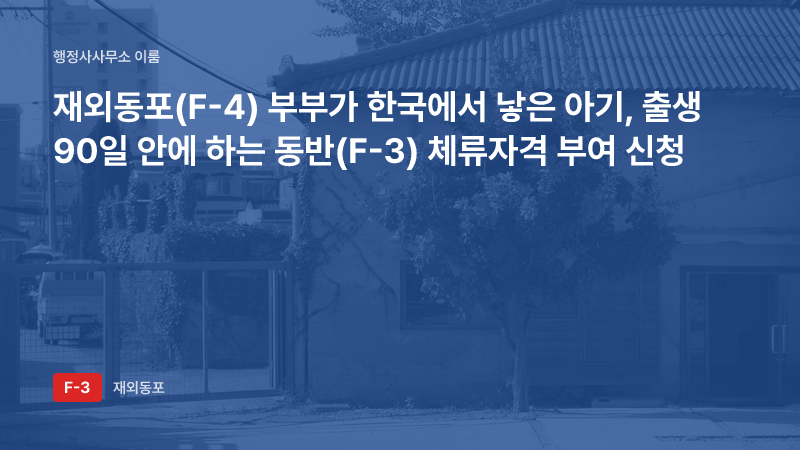
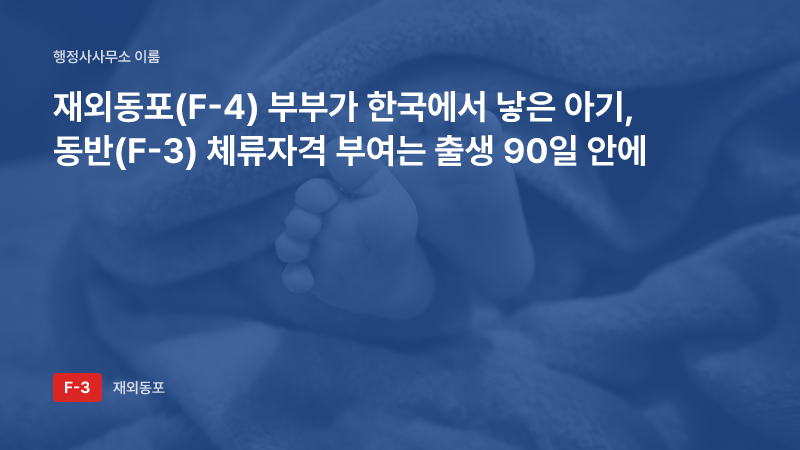
content(f4blog-1124): 국내 출생 자녀 F-3 글 — 390px 제목 줄바꿈('동반(F-'/'3)') 피하는 제목, 주제 일치 썸네일(신생아 Pexels 8203609), 본문 대표 글 링크 2·관련 안내 중복 정리·하이코리아 1줄, 근거표 2026-11-16판 재대조, 은행 순서 41↔42
맥7 F4BLOG-1124.

diff --git a/scripts/f4visa-daily/bank/f4-parents-korea-born-child-f3-status-grant/evidence.md b/scripts/f4visa-daily/bank/f4-parents-korea-born-child-f3-status-grant/evidence.md
@@ -1,36 +1,38 @@
 # 근거 대조표 — f4-parents-korea-born-child-f3-status-grant
 
-기준: 체류민원 자격별 안내 매뉴얼 추출본 stay_261019.txt(2026-10-19판, 행 번호는 추출본 기준). 원문 인용은 공백만 무시하고 글자 그대로 옮겼다.
+기준: 체류민원 자격별 안내 매뉴얼 추출본 stay_261116.txt(2026-11-16판, NAS 출입국매뉴얼/2026.11.22 텍스트추출 — 11-24 F4BLOG-1124 재대조, 25건 원문 동일, 행 번호는 추출본 기준). 원문 인용은 공백만 무시하고 글자 그대로 옮겼다.
 
 | # | 원고 주장(요약) | 출처(행) | 원문 인용 |
 |---|---|---|---|
-| 1 | 국내 출생으로 체류자격 없이 체류하게 된 외국인은 출생일부터 90일 이내 체류자격을 받아야 함(출입국관리법) | stay:L16133 | ①대한민국에서 출생하여 제10조에 따른 체류자격을 가지지 못하고 체류하게 되는 외국인은 그가 출생한 날부터 90일 이내에 |
-| 2 | 국내 출생 외국인 90일 이내 자격부여 | stay:L16136 | ☞ 국내 출생 외국인 : 출생일로부터 90일 이내에 자격부여를 받아야 함 |
-| 3 | F-3 기본 대상: F-4 취득자의 배우자 및 미성년 자녀 | stay:L25184 | 재외동포(F-4) 자격을 취득한 자의 가족 (배우자 및 미성년 자녀) |
-| 4 | H-2 취득자의 배우자·미성년 자녀도 F-3 기본 대상 | stay:L25185 | 방문취업(H-2) 자격을 취득한 자의 가족 (배우자 및 미성년 자녀) |
-| 5 | F-3 해당자: 배우자, 배우자가 없는 미성년 자녀 | stay:L19496 | 재외동포(F-4) 및 방문취업(H-2)의 체류자격에 해당하는 사람의 배우자 및 미성년 자녀로서 배우자가 없는 사람 |
-| 6 | F-3 체류자격 부여 서류: 신청서·여권·사진 1매·수수료 | stay:L19631-19632 | 1. 제출서류 ① 신청서(별지 34호 서식), 여권, 표준규격사진 1매, 수수료 |
-| 7 | 부 또는 모의 외국인등록증 | stay:L19633 | ② 부 또는 모의 외국인등록증 |
-| 8 | 신원보증서 | stay:L19634 | ③ 신원보증서 |
-| 9 | 가족관계 입증서류 | stay:L19635 | ④ 가족관계 입증서류 |
-| 10 | 본국 출생증명서 원본(공적 서류 입증 필수) | stay:L19637 | 본국의 출생증명서 원본(공적 서류 입증 필수) 등 |
-| 11 | 대한민국 내 출생 시 국내 출생증명서 | stay:L19638 | 국내 출생증명서(대한민국 내 출생 시) |
-| 12 | 본국 가족관계증명서 등 친자관계 입증서류 | stay:L19639 | 본국의 가족관계증명서 등 친자관계 입증서류 |
-| 13 | 중국: 거민신분증, 결혼증, 호구부 등 | stay:L19640 | 중국의 경우 거민신분증, 결혼증, 호구부 등 |
-| 14 | 본국 공적 서류: 번역자 확인서·아포스티유·영사확인 모두 갖출 것 | stay:L19641-19644 | ※ 본국의 공적 서류의 경우 아래 요건을 모두 갖출 것 - 번역자 확인서 필수 첨부 - 협약국인 경우 아포스티유 확인 필요 - 미체약국인 경우 주재국 대한민국 공관의 영사확인 필요 |
-| 15 | F-4는 거소신고(국내거소신고증 보유 — 부모 서류 확인 권고의 전제) | stay:L24911 | 90일 이상 체류하고자 하는 경우 입국일부터 90일 이내 거소신고 |
-| 16 | F-5 부모의 국내 출생 자녀 → F-5 자격 부여 | stay:L19814 | 대한민국에서 체류하고 있는 영주(F-5) 자격의 부 또는 모가 대한민국에서 출생한 자녀에 대하여 체류자격부여를 신청한 경우 영주(F-5)자격 부여 |
-| 17 | 그 경우도 출생일부터 90일 이내 신청 | stay:L19815 | 가. 출생한 날부터 90일 이내에 체류자격 부여신청 |
-| 18 | 해외 출생 자녀 제외 | stay:L19816 | ※ 해외에서 출생한 자녀는 제외 |
-| 19 | 동포 가족 연장은 주 체류자격자의 체류기간 범위 내 | stay:L25201 | 주 체류자격자의 체류기간 범위 내에서 연장 |
-| 20 | F-3 연장 서류: 신청서·여권 및 외국인등록증·수수료, 체류지 입증서류 | stay:L19704-19705 | ① 신청서(별지 34호 서식), 여권 및 외국인등록증, 수수료 ② 체류지 입증서류(임대차계약서, 부동산 등기부등본, 전세계약서, 매매계약서 등 및 숙소제공 확인서) |
-| 21 | F-3 연장 추가서류: 배우자 또는 부모의 외국인등록증 | stay:L19708 | ③ 배우자 또는 부모의 외국인등록증 |
-| 22 | 재입국허가 면제: 출국 후 1년 이내 재입국 | stay:L19714 | 등록을 필한 외국인이 출국한 날부터 1년 이내에 재입국하려는 경우 재입국허가 면제 |
-| 23 | 체류기간 1년 미만 남은 경우 체류기간 범위 내 면제 | stay:L19715 | 체류기간이 1년보다 적게 남아있는 경우 체류기간 범위 내에서 재입국허가 면제 |
+| 1 | 국내 출생으로 체류자격 없이 체류하게 된 외국인은 출생일부터 90일 이내 체류자격을 받아야 함(출입국관리법) | stay:L16208 | ①대한민국에서 출생하여 제10조에 따른 체류자격을 가지지 못하고 체류하게 되는 외국인은 그가 출생한 날부터 90일 이내에 |
+| 2 | 국내 출생 외국인 90일 이내 자격부여 | stay:L16211 | ☞ 국내 출생 외국인 : 출생일로부터 90일 이내에 자격부여를 받아야 함 |
+| 3 | F-3 기본 대상: F-4 취득자의 배우자 및 미성년 자녀 | stay:L25262 | 재외동포(F-4) 자격을 취득한 자의 가족 (배우자 및 미성년 자녀) |
+| 4 | H-2 취득자의 배우자·미성년 자녀도 F-3 기본 대상 | stay:L25263 | 방문취업(H-2) 자격을 취득한 자의 가족 (배우자 및 미성년 자녀) |
+| 5 | F-3 해당자: 배우자, 배우자가 없는 미성년 자녀 | stay:L19571 | 재외동포(F-4) 및 방문취업(H-2)의 체류자격에 해당하는 사람의 배우자 및 미성년 자녀로서 배우자가 없는 사람 |
+| 6 | F-3 체류자격 부여 서류: 신청서·여권·사진 1매·수수료 | stay:L19706-19707 | 1. 제출서류 ① 신청서(별지 34호 서식), 여권, 표준규격사진 1매, 수수료 |
+| 7 | 부 또는 모의 외국인등록증 | stay:L19708 | ② 부 또는 모의 외국인등록증 |
+| 8 | 신원보증서 | stay:L19709 | ③ 신원보증서 |
+| 9 | 가족관계 입증서류 | stay:L19710 | ④ 가족관계 입증서류 |
+| 10 | 본국 출생증명서 원본(공적 서류 입증 필수) | stay:L19712 | 본국의 출생증명서 원본(공적 서류 입증 필수) 등 |
+| 11 | 대한민국 내 출생 시 국내 출생증명서 | stay:L19713 | 국내 출생증명서(대한민국 내 출생 시) |
+| 12 | 본국 가족관계증명서 등 친자관계 입증서류 | stay:L19714 | 본국의 가족관계증명서 등 친자관계 입증서류 |
+| 13 | 중국: 거민신분증, 결혼증, 호구부 등 | stay:L19715 | 중국의 경우 거민신분증, 결혼증, 호구부 등 |
+| 14 | 본국 공적 서류: 번역자 확인서·아포스티유·영사확인 모두 갖출 것 | stay:L19716-19719 | ※ 본국의 공적 서류의 경우 아래 요건을 모두 갖출 것 - 번역자 확인서 필수 첨부 - 협약국인 경우 아포스티유 확인 필요 - 미체약국인 경우 주재국 대한민국 공관의 영사확인 필요 |
+| 15 | F-4는 거소신고(국내거소신고증 보유 — 부모 서류 확인 권고의 전제) | stay:L24989 | 90일 이상 체류하고자 하는 경우 입국일부터 90일 이내 거소신고 |
+| 16 | F-5 부모의 국내 출생 자녀 → F-5 자격 부여 | stay:L19889 | 대한민국에서 체류하고 있는 영주(F-5) 자격의 부 또는 모가 대한민국에서 출생한 자녀에 대하여 체류자격부여를 신청한 경우 영주(F-5)자격 부여 |
+| 17 | 그 경우도 출생일부터 90일 이내 신청 | stay:L19890 | 가. 출생한 날부터 90일 이내에 체류자격 부여신청 |
+| 18 | 해외 출생 자녀 제외 | stay:L19891 | ※ 해외에서 출생한 자녀는 제외 |
+| 19 | 동포 가족 연장은 주 체류자격자의 체류기간 범위 내 | stay:L25279 | 주 체류자격자의 체류기간 범위 내에서 연장 |
+| 20 | F-3 연장 서류: 신청서·여권 및 외국인등록증·수수료, 체류지 입증서류 | stay:L19778-19779 | ① 신청서(별지 34호 서식), 여권 및 외국인등록증, 수수료 ② 체류지 입증서류(임대차계약서, 부동산 등기부등본, 전세계약서, 매매계약서 등 및 숙소제공 확인서) |
+| 21 | F-3 연장 추가서류: 배우자 또는 부모의 외국인등록증 | stay:L19783 | ③ 배우자 또는 부모의 외국인등록증 |
+| 22 | 재입국허가 면제: 출국 후 1년 이내 재입국 | stay:L19789 | 등록을 필한 외국인이 출국한 날부터 1년 이내에 재입국하려는 경우 재입국허가 면제 |
+| 23 | 체류기간 1년 미만 남은 경우 체류기간 범위 내 면제 | stay:L19790 | 체류기간이 1년보다 적게 남아있는 경우 체류기간 범위 내에서 재입국허가 면제 |
 | 24 | 만 6세 이상 재학 여부 신고 대상 | stay:L227 | 만 6세 이상 만 18세 이하 등록(거소)외국인은 아래와 같이 재학여부를 신고하여야만 합니다. |
-| 25 | 최초 입학·재학 여부 변경 시 15일 이내 | stay:L231 | (공통) 초·중·고교 최초 입학 또는 재학 여부 변경(상급학교 진학 포함) 시 15일 이내 |
+| 25 | 최초 입학·재학 여부 변경 시 15일 이내 | stay:L230 | (공통) 초·중·고교 최초 입학 또는 재학 여부 변경(상급학교 진학 포함) 시 15일 이내 |
 
 비고
 - 동반(F-3) 체류자격 부여 서류(행 19629~19644)는 동반(F-3) 자격 항목(행 19483~)의 '체류자격 부여' 칸이다. 원고는 법조문 번호를 쓰지 않고 '출입국관리법' 법 이름만 썼다.
 - '부모가 모두 재외동포(F-4)라면 영주 자녀 절차가 아니라 동반(F-3)을 검토'는 #3·#16의 조합이다. 아기 국적 판단(부모 중 국민이 있는 경우 등)은 매뉴얼 범위 밖이라 원고에서 다루지 않았다.
 - '출생 직후 서류 발급이 겹쳐 90일이 짧을 수 있다', '부모 신분 서류는 관서 확인' 은 사실 주장이 아니라 실무 권고다.
+
+- 11-24 F4BLOG-1124: 원문 인용 25건 모두 2026-11-16판에서 같은 글자로 다시 확인(행 번호 갱신). 본문 대표 글 링크 2개 추가(f4-spouse-f3-visa-application·f4-long-departure-reentry-rules), 관련 안내 중복 링크 정리, "보통 국내거소신고증"(F-3 사증 서류 L25270 '재외동포(F-4) 자격을 취득한 사람의 국내거소신고증'), 끝에 하이코리아 링크 1줄.

diff --git a/scripts/f4visa-daily/bank/f4-parents-korea-born-child-f3-status-grant/ko.md b/scripts/f4visa-daily/bank/f4-parents-korea-born-child-f3-status-grant/ko.md
@@ -1,6 +1,6 @@
 ---
 slug: f4-parents-korea-born-child-f3-status-grant
-title: "재외동포(F-4) 부부가 한국에서 낳은 아기, 출생 90일 안에 하는 동반(F-3) 체류자격 부여 신청"
+title: "재외동포(F-4) 부부가 한국에서 낳은 아기, 동반(F-3) 체류자격 부여는 출생 90일 안에"
 description: "재외동포(F-4) 부모가 한국에서 낳은 외국 국적 아기는 출생일부터 90일 이내에 체류자격 부여를 받아야 합니다. 동반(F-3) 부여 서류, 출생증명서 요건, 영주권자 자녀와의 차이를 살펴봅니다."
 locale: ko
 keywords:
@@ -10,7 +10,7 @@ keywords:
   - 국내 출생 외국인 자격부여
 ---
 
-# 재외동포(F-4) 부부가 한국에서 낳은 아기, 출생 90일 안에 하는 동반(F-3) 체류자격 부여 신청
+# 재외동포(F-4) 부부가 한국에서 낳은 아기, 동반(F-3) 체류자격 부여는 출생 90일 안에
 
 한국에서 태어났지만 체류자격이 없는 외국 국적 아기는 출생일부터 90일 이내에 체류자격 부여를 받아야 합니다.
 재외동포(F-4) 부모의 미성년 자녀는 동반(F-3)이 기본 대상이므로, 출생 직후 출생증명서와 가족관계 서류를 준비해 동반(F-3) 체류자격 부여를 신청하는 흐름이 됩니다.
@@ -40,6 +40,7 @@ keywords:
 
 따라서 재외동포(F-4) 부모의 아기는 동반(F-3) 체류자격 부여를 기본으로 검토합니다.
 부모가 방문취업(H-2)인 경우에도 그 배우자와 미성년 자녀가 동반(F-3)의 기본 대상입니다.
+해외에 있는 배우자·자녀를 동반(F-3) 사증으로 초청하는 절차는 [F-4 배우자의 F-3 동반비자 신청 절차](https://www.f4visa.net/blog/f4-spouse-f3-visa-application)에서 따로 볼 수 있습니다.
 
 ## 3. 어떤 서류를 내나요?
 
@@ -55,7 +56,7 @@ keywords:
 가족관계 입증서류로는 본국의 출생증명서 원본(공적 서류 입증 필수), 대한민국 내에서 출생한 경우의 국내 출생증명서, 본국의 가족관계증명서 등 친자관계 입증서류가 안내되어 있습니다.
 중국의 경우 거민신분증, 결혼증, 호구부 등을 냅니다.
 
-재외동포(F-4) 부모는 외국인등록증 대신 국내거소신고증을 가지고 있으므로, 부모 쪽 신분 서류를 무엇으로 낼지 관할 출입국·외국인관서에 미리 확인하는 것이 좋습니다.
+재외동포(F-4) 부모는 보통 외국인등록증 대신 국내거소신고증을 가지고 있으므로, 부모 쪽 신분 서류를 무엇으로 낼지 관할 출입국·외국인관서에 미리 확인하는 것이 좋습니다.
 아기 여권도 신청서류에 들어가므로 여권 발급 일정을 함께 따져야 합니다.
 
 ### 본국 서류를 낼 때 주의할 점
@@ -84,6 +85,7 @@ keywords:
 
 등록을 마친 외국인은 출국한 날부터 1년 이내에 재입국하면 재입국허가가 면제되고, 체류기간이 1년보다 적게 남았다면 그 체류기간 범위 내에서 면제됩니다.
 아기와 함께 본국을 다녀올 계획이 있다면 아기의 체류기간도 같이 확인해야 합니다.
+부모의 장기 출국과 재입국 때 확인할 점은 [F-4 장기 출국 유의사항과 재입국](https://www.f4visa.net/blog/f4-long-departure-reentry-rules)에 정리되어 있습니다.
 
 아이가 만 6세가 되면 재학 여부 신고 대상이 되고, 초·중·고 최초 입학이나 진학으로 재학 여부가 바뀌면 15일 이내에 신고합니다.
 학교 입학 준비는 [F-4 자녀 국내 초·중·고 입학](https://www.f4visa.net/blog/f4-visa-children-school-enrollment)에서 이어서 볼 수 있습니다.
@@ -125,10 +127,13 @@ keywords:
 
 ## 관련 안내
 
-- [F-4 배우자·자녀 동반 비자](https://www.f4visa.net/blog/f4-spouse-f3-visa-application)
-- [F-4 가족 동반 입국과 체류 자격](https://www.f4visa.net/blog/f4-spouse-f3-visa-application)
+- [F-4 배우자의 F-3 동반비자 신청 절차](https://www.f4visa.net/blog/f4-spouse-f3-visa-application)
+- [동포 영주권자의 국내 출생 자녀(F-5-20) 신청](https://www.f4visa.net/blog/f5-20-korea-born-child-of-permanent-resident)
 - [F-4 자녀 국내 초·중·고 입학](https://www.f4visa.net/blog/f4-visa-children-school-enrollment)
+- [F-4 장기 출국 유의사항과 재입국](https://www.f4visa.net/blog/f4-long-departure-reentry-rules)
 
 ## 상담 안내
 
 행정사사무소 이룸 (EROOM Administrative Office)는 서류 준비와 행정기관 제출을 지원하는 행정사 사무소입니다. 비용은 사례별로 달라 상담에서 안내드립니다. 전화 02-363-2251 · 상담 문의: https://www.f4visa.net/contact
+
+**공식 사이트에서 확인하기:** [하이코리아](https://www.hikorea.go.kr)

diff --git a/content/blog/f4-parents-korea-born-child-f3-status-grant.md b/content/blog/f4-parents-korea-born-child-f3-status-grant.md
@@ -1,12 +1,12 @@
 ---
-title: "재외동포(F-4) 부부가 한국에서 낳은 아기, 출생 90일 안에 하는 동반(F-3) 체류자격 부여 신청"
+title: "재외동포(F-4) 부부가 한국에서 낳은 아기, 동반(F-3) 체류자격 부여는 출생 90일 안에"
 date: "2026-11-24"
 category: "재외동포"
 excerpt: "재외동포(F-4) 부모가 한국에서 낳은 외국 국적 아기는 출생일부터 90일 이내에 체류자격 부여를 받아야 합니다. 동반(F-3) 부여 서류, 출생증명서 요건, 영주권자 자녀와의 차이를 살펴봅니다."
 image: "/og/f4-parents-korea-born-child-f3-status-grant.png"
 slug: "f4-parents-korea-born-child-f3-status-grant"
 ---
-# 재외동포(F-4) 부부가 한국에서 낳은 아기, 출생 90일 안에 하는 동반(F-3) 체류자격 부여 신청
+# 재외동포(F-4) 부부가 한국에서 낳은 아기, 동반(F-3) 체류자격 부여는 출생 90일 안에
 
 한국에서 태어났지만 체류자격이 없는 외국 국적 아기는 출생일부터 90일 이내에 체류자격 부여를 받아야 합니다.
 재외동포(F-4) 부모의 미성년 자녀는 동반(F-3)이 기본 대상이므로, 출생 직후 출생증명서와 가족관계 서류를 준비해 동반(F-3) 체류자격 부여를 신청하는 흐름이 됩니다.
